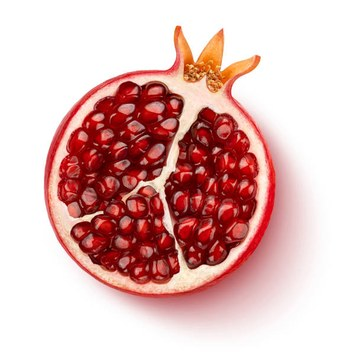
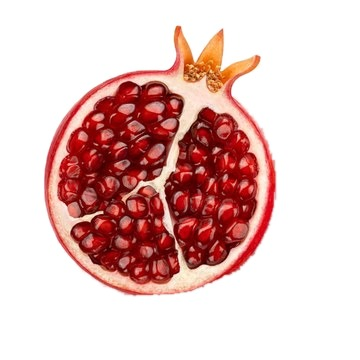
Add files via upload

Changed region(s): [[0.275, 0.3056, 0.8556, 0.9167], [0.2444, 0.7639, 0.275, 0.7944]]

diff --git a/index.html b/index.html
@@ -458,9 +458,22 @@ footer .brand{font-size:15px;letter-spacing:.42em}
   gap:clamp(28px,3.2vw,48px)}
 .hero-pillars .pillar{display:flex;align-items:center;gap:clamp(16px,1.8vw,26px)}
 .hero-pillars .pillar[data-edge="r"]{flex-direction:row-reverse;text-align:left}
+/* (user request) these 4 hero pillars also pick up the generic .pillar/.pillar:hover
+   card-background rule from the "pillars" section further down (background:var(--paper),
+   hovering to the tan var(--paper-3)) since they share the bare .pillar class -- kill
+   both states here, scoped so it doesn't touch the real card pillars elsewhere. */
+.hero-pillars .pillar,.hero-pillars .pillar:hover{background:none}
 .pillar-body{min-width:0}
 .pillar-icon{flex:0 0 auto;height:clamp(76px,8vw,124px);width:auto;object-fit:contain}
 .pillar-icon-origin{height:clamp(99px,10.4vw,161px)}
+/* (user request) icons shown at 2x their visual size, but the layout box they
+   occupy in the flex row stays at the original height/width above -- a
+   transform (scale) is purely visual and never affects an element's layout
+   box, so the text column next to each icon keeps exactly the width/wrapping
+   it had before, instead of being squeezed by a literally-larger icon. The
+   scale has to be folded into the existing slide-in transform (translateX)
+   below rather than set here, since that rule overwrites transform wholesale
+   on each animation state. */
 /* .hero-pillars .pillar h3/p (not the bare .hero-pillars h3/p used before) --
    the numbered ingredient-section pillars further down the page also use a
    bare .pillar class on their own wrapper (see "pillars" rules above) with a
@@ -940,9 +953,18 @@ footer .brand{font-size:15px;letter-spacing:.42em}
    getting its very top clipped by the section above. Rotating just the photo
    (not the figure/scale transform) swings the crown out from dead-centre-top,
    clearing the top edge -- the source photo is shot on a plain white
-   background matching --paper, so the rotated square's corners disappear
-   into the page with no visible seam. */
-.ishot.ishot-pomma img{transform:rotate(30deg)}
+   background matching --paper, so the square itself was assumed to disappear
+   into the page with no visible seam. In practice a square rotated 30 degrees
+   has a bounding box ~37% wider/taller than the square itself (side*(cos+sin)),
+   and at this item's focus width that extra reach is wide enough to overlap
+   the neighbouring ishot thumbnails on both sides -- invisible against the
+   white page on its own, but it sits later in source order than the item to
+   its left, so it paints over that neighbour's edge, visibly clipping it.
+   border-radius:50% clips the square to the circle inscribed in it; every
+   actual fruit/crown pixel already sits inside that circle (checked against
+   the source photo), so nothing of the fruit is lost -- only the blank
+   corner triangles that were doing the overlapping are. */
+.ishot.ishot-pomma img{transform:rotate(30deg);border-radius:50%}
 .icap{position:absolute;top:calc(100% + 12px);left:0;right:0;
   opacity:0;transform:translateY(10px);transition:opacity .45s ease .06s,transform .45s cubic-bezier(.22,1,.36,1) .06s;
   pointer-events:none}
@@ -1618,9 +1640,9 @@ footer{background:var(--paper);border-top:1px solid var(--line);padding:70px 0 4
 .pillar[data-edge="r"] .pillar-body{transform:translateX(14vw)}
 .pillar[data-edge].in .pillar-body{opacity:1;transform:none}
 .pillar-icon[data-edge]{opacity:0;transition:opacity 1.1s cubic-bezier(.22,1,.36,1),transform 1.1s cubic-bezier(.22,1,.36,1)}
-.pillar-icon[data-edge="l"]{transform:translateX(-16vw)}
-.pillar-icon[data-edge="r"]{transform:translateX(16vw)}
-.pillar-icon[data-edge].in{opacity:1;transform:none}
+.pillar-icon[data-edge="l"]{transform:translateX(-16vw) scale(2);transform-origin:100% 50%}
+.pillar-icon[data-edge="r"]{transform:translateX(16vw) scale(2);transform-origin:0% 50%}
+.pillar-icon[data-edge].in{opacity:1;transform:scale(2)}
 
 /* ---------- Rita Rocks feature ---------- */
 .rita-feature{position:relative;width:100%;overflow:hidden;background:var(--paper)}
@@ -2091,7 +2113,7 @@ footer{background:var(--paper);border-top:1px solid var(--line);padding:70px 0 4
   *{animation:none !important;transition-duration:.01ms !important}
   .rv{opacity:1;transform:none}
   .pillar[data-edge] .pillar-body{opacity:1;transform:none}
-  .pillar-icon[data-edge]{opacity:1;transform:none}
+  .pillar-icon[data-edge]{opacity:1;transform:scale(2)}
   .hero-actives li{opacity:1;transform:none}
 }
 </style>
@@ -4886,9 +4908,10 @@ footer{background:var(--paper);border-top:1px solid var(--line);padding:70px 0 4
             // icon slides in after the copy has landed, not alongside it --
             // pushed back an additional 2s per an earlier request (v90), then
             // pulled 1s earlier per a follow-up request (v95: 2000 -> 1000),
+            // then pulled another 0.5s earlier per a later request (1000 -> 500),
             // so the icon still lands after the text has settled but sooner
             // than it did before
-            icon.style.transitionDelay = (textDelay + 550 + 1000) + 'ms';
+            icon.style.transitionDelay = (textDelay + 550 + 500) + 'ms';
             icon.classList.add('in');
           }
           ioEdge.unobserve(e.target);
